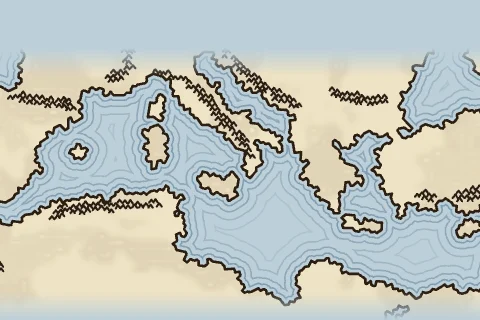
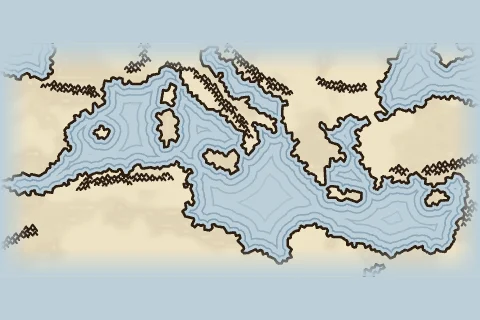
dev: the atlas's cards whole again, the World with Japan and all, faded into the sea at their frame (0.5.56)
Claude-Session: https://claude.ai/code/session_01Y8nXzWj2NMK5JRUx4Cs7dG

diff --git a/src/render/sketch.ts b/src/render/sketch.ts
@@ -32,8 +32,6 @@ const SHORES = [
 const [LINE, INK] = [0.8, 1.3]
 /** Pixels of the page a pixel of the darker lands spans, stretched: how soft their edges. */
 const SOFT = 3
-/** How much of the card a map in a list covers at least, its land cut at its sides if need be. */
-const COVER = 0.85
 /** Pixels of the page over which a map in a list fades into the sea at its frame. */
 const FADE = 14
 /** Canvas pixels drawn per pixel of the page, at most. */
@@ -69,20 +67,20 @@ function sketch(
   // hauteur l'area partie publique »); or, in a list of maps, its land in
   // play whole and in the middle, the rest of the map round it as far as
   // the card goes (« fais pas les rectangles sur les maps … rend ça mieux »).
-  // In a list, as little as may be past the map's frame: a land cut by the
-  // frame showed a straight edge there and a pale band beyond (« problème de
-  // trait », « bandes claires »). The map covers most of the card, a land of
-  // another shape cut a little at its sides, and fades into the sea at its
-  // frame (FADE).
+  // In a list, the land whole, never cut (« je veux la map complète »), as
+  // little as may be past the map's frame: a land cut by the frame showed a
+  // straight edge there and a pale band beyond (« problème de trait »,
+  // « bandes claires »); it fades into the sea at its frame (FADE).
   const frame = whole
     ? boundsOf(world)
     : { x: 0, y: 0, w: world.width, h: world.height }
   const cover = Math.max(width / world.width, height / world.height)
   const scale = whole
-    ? Math.max(cover * COVER, Math.min(width / frame.w, height / frame.h))
+    ? Math.min(width / frame.w, height / frame.h)
     : cover
+  // The land's middle, moved for the card to show as little past the frame as may be.
   const within = (middle: number, half: number, side: number) =>
-    Math.min(Math.max(middle, half), side - half)
+    2 * half >= side ? side / 2 : Math.min(Math.max(middle, half), side - half)
   const [dx, dy] = [
     width / 2 -
       within(frame.x + frame.w / 2, width / 2 / scale, world.width) * scale,
